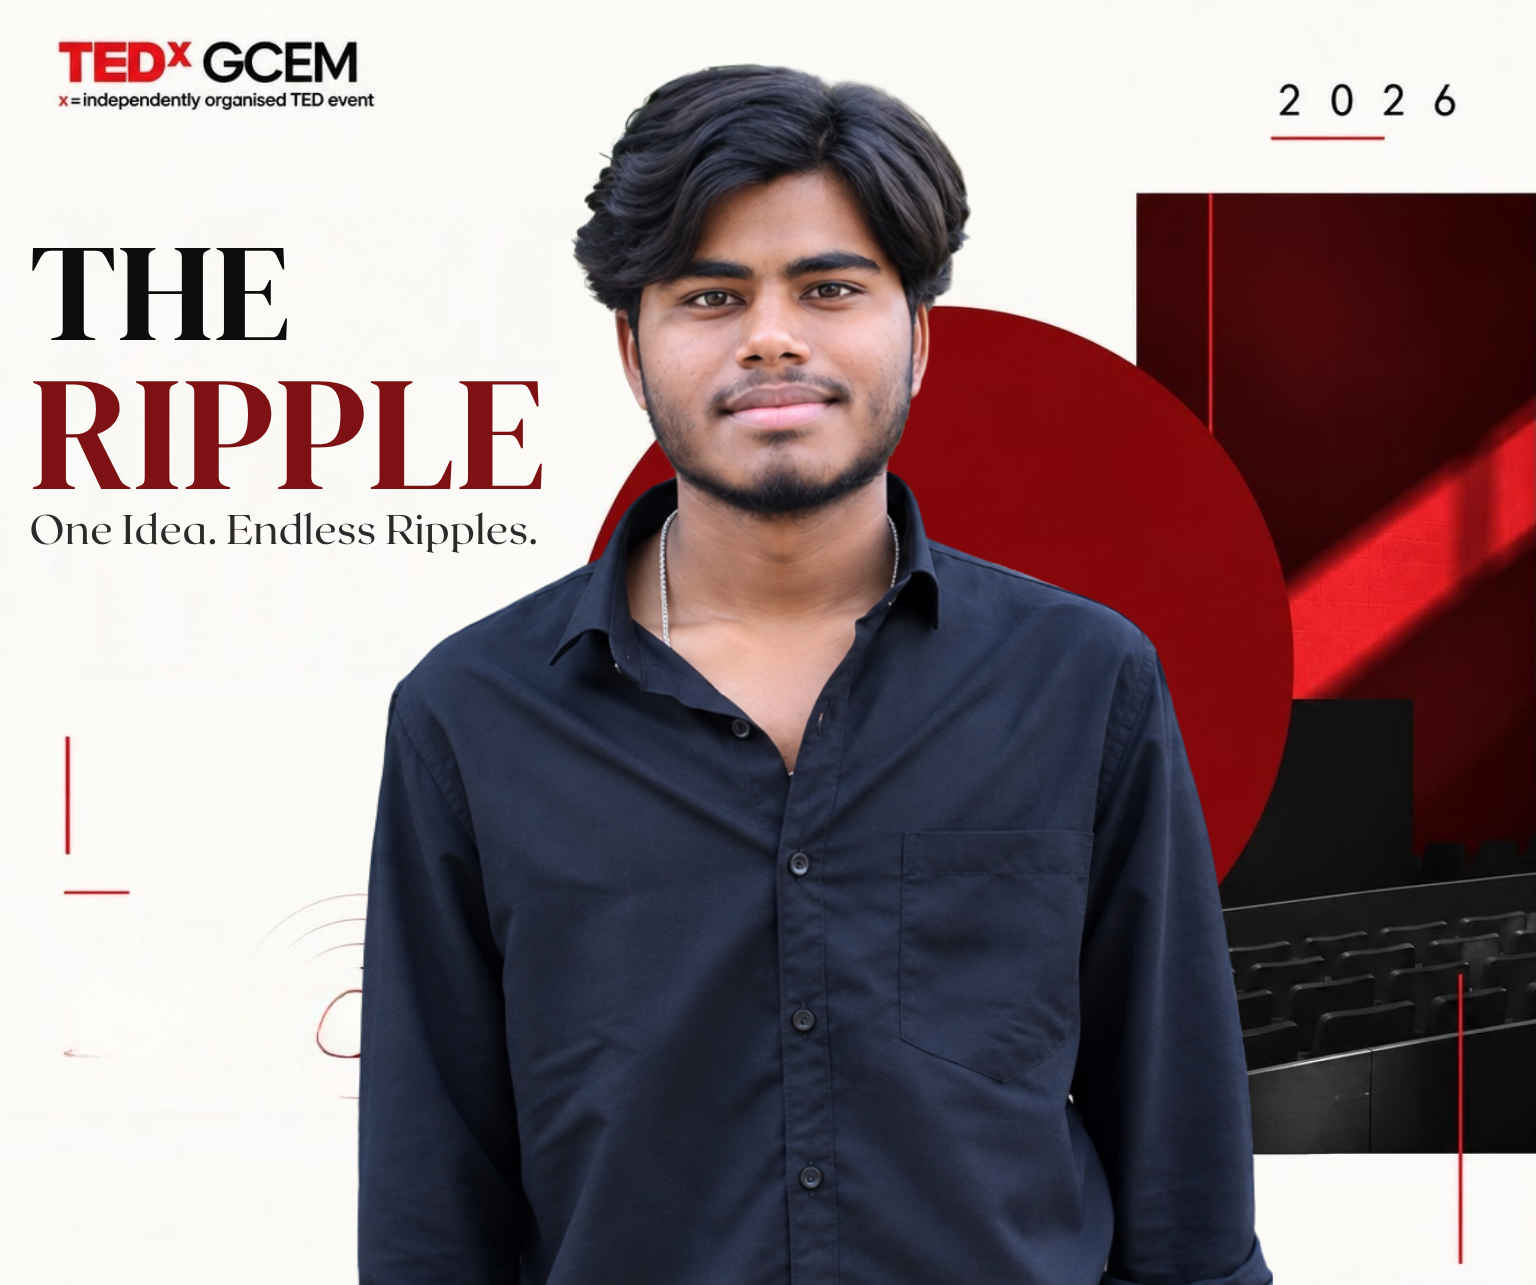
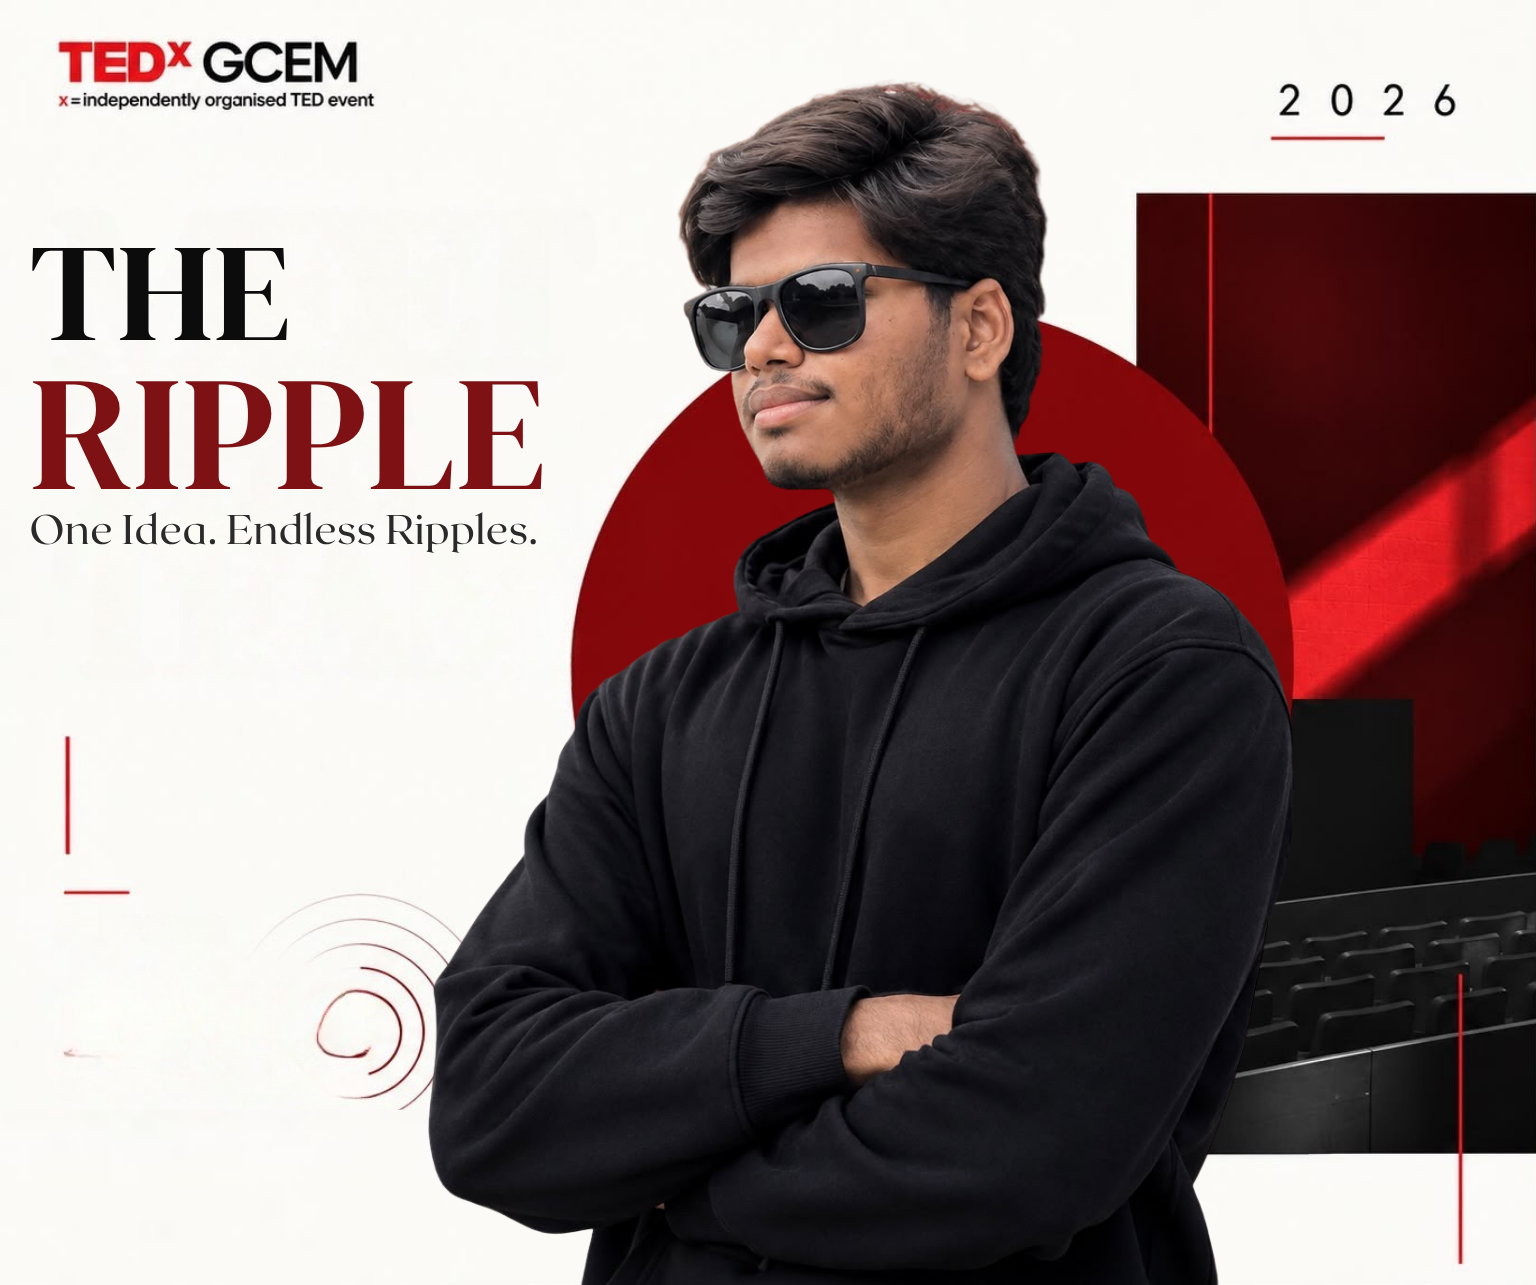
feat(team): update Mallikarjuna photo, tone down profile hero font, and update to Prof. Kartheek GCR

diff --git a/src/components/team/ProfileTemplate.tsx b/src/components/team/ProfileTemplate.tsx
@@ -262,11 +262,11 @@ export function ProfileTemplate({ member }: { member: MemberData }) {
 
                 {/* Oversized Name Typography */}
                 {isSingleLineName ? (
-                  <h1 className="font-serif-editorial font-medium uppercase tracking-tight text-white leading-tight text-[clamp(1.75rem,5.4vw,6.5rem)] sm:text-[clamp(2.2rem,5.6vw,6.5rem)] whitespace-nowrap drop-shadow-[0_0_35px_rgba(255,255,255,0.35)]">
+                  <h1 className="font-serif-editorial font-medium uppercase tracking-tight text-white leading-tight text-[clamp(1.5rem,4.2vw,4.8rem)] sm:text-[clamp(1.8rem,4.5vw,5rem)] whitespace-nowrap drop-shadow-[0_0_35px_rgba(255,255,255,0.35)]">
                     {member.name}
                   </h1>
                 ) : (
-                  <h1 className="font-serif-editorial font-light uppercase tracking-tight text-white leading-[0.88] text-[clamp(3.2rem,8.5vw,9.5rem)] text-balance">
+                  <h1 className="font-serif-editorial font-light uppercase tracking-tight text-white leading-[0.9] text-[clamp(2.2rem,5vw,5.5rem)] text-balance">
                     <span className="block font-normal">{nameFormatted.first}</span>
                     {nameFormatted.rest && (
                       <span className="block text-neutral-400 font-extralight italic">

diff --git a/src/lib/members-data.ts b/src/lib/members-data.ts
@@ -412,11 +412,11 @@ export const INITIAL_MEMBERS: StaticMember[] = [
 
   {
     slug: 'kartheek-gcr',
-    name: 'Kartheek GCR',
+    name: 'Prof. Kartheek GCR',
     role: 'Organizer & Licensee',
     team: 'leadership',
     oneLiner: 'Official TED Licensee and Lead Organizer, steering the overarching vision and execution of TEDxGCEM 2026.',
-    bio: 'Kartheek GCR is the Official TED Licensee and Organizer of TEDxGCEM 2026. He holds the official TED license, securing institutional approvals and steering the grand vision to bring world-class ideas to the GCEM stage.',
+    bio: 'Prof. Kartheek GCR is the Official TED Licensee and Organizer of TEDxGCEM 2026. He holds the official TED license, securing institutional approvals and steering the grand vision to bring world-class ideas to the GCEM stage.',
     contribution: 'Official TED Licensee holder, organizing executive leadership, institutional compliance, and event stewardship.',
     interests: ['Leadership', 'Event Organization', 'TED Compliance', 'Strategic Vision'],
     photoUrl: '/KARTHEEK GCR.png',
